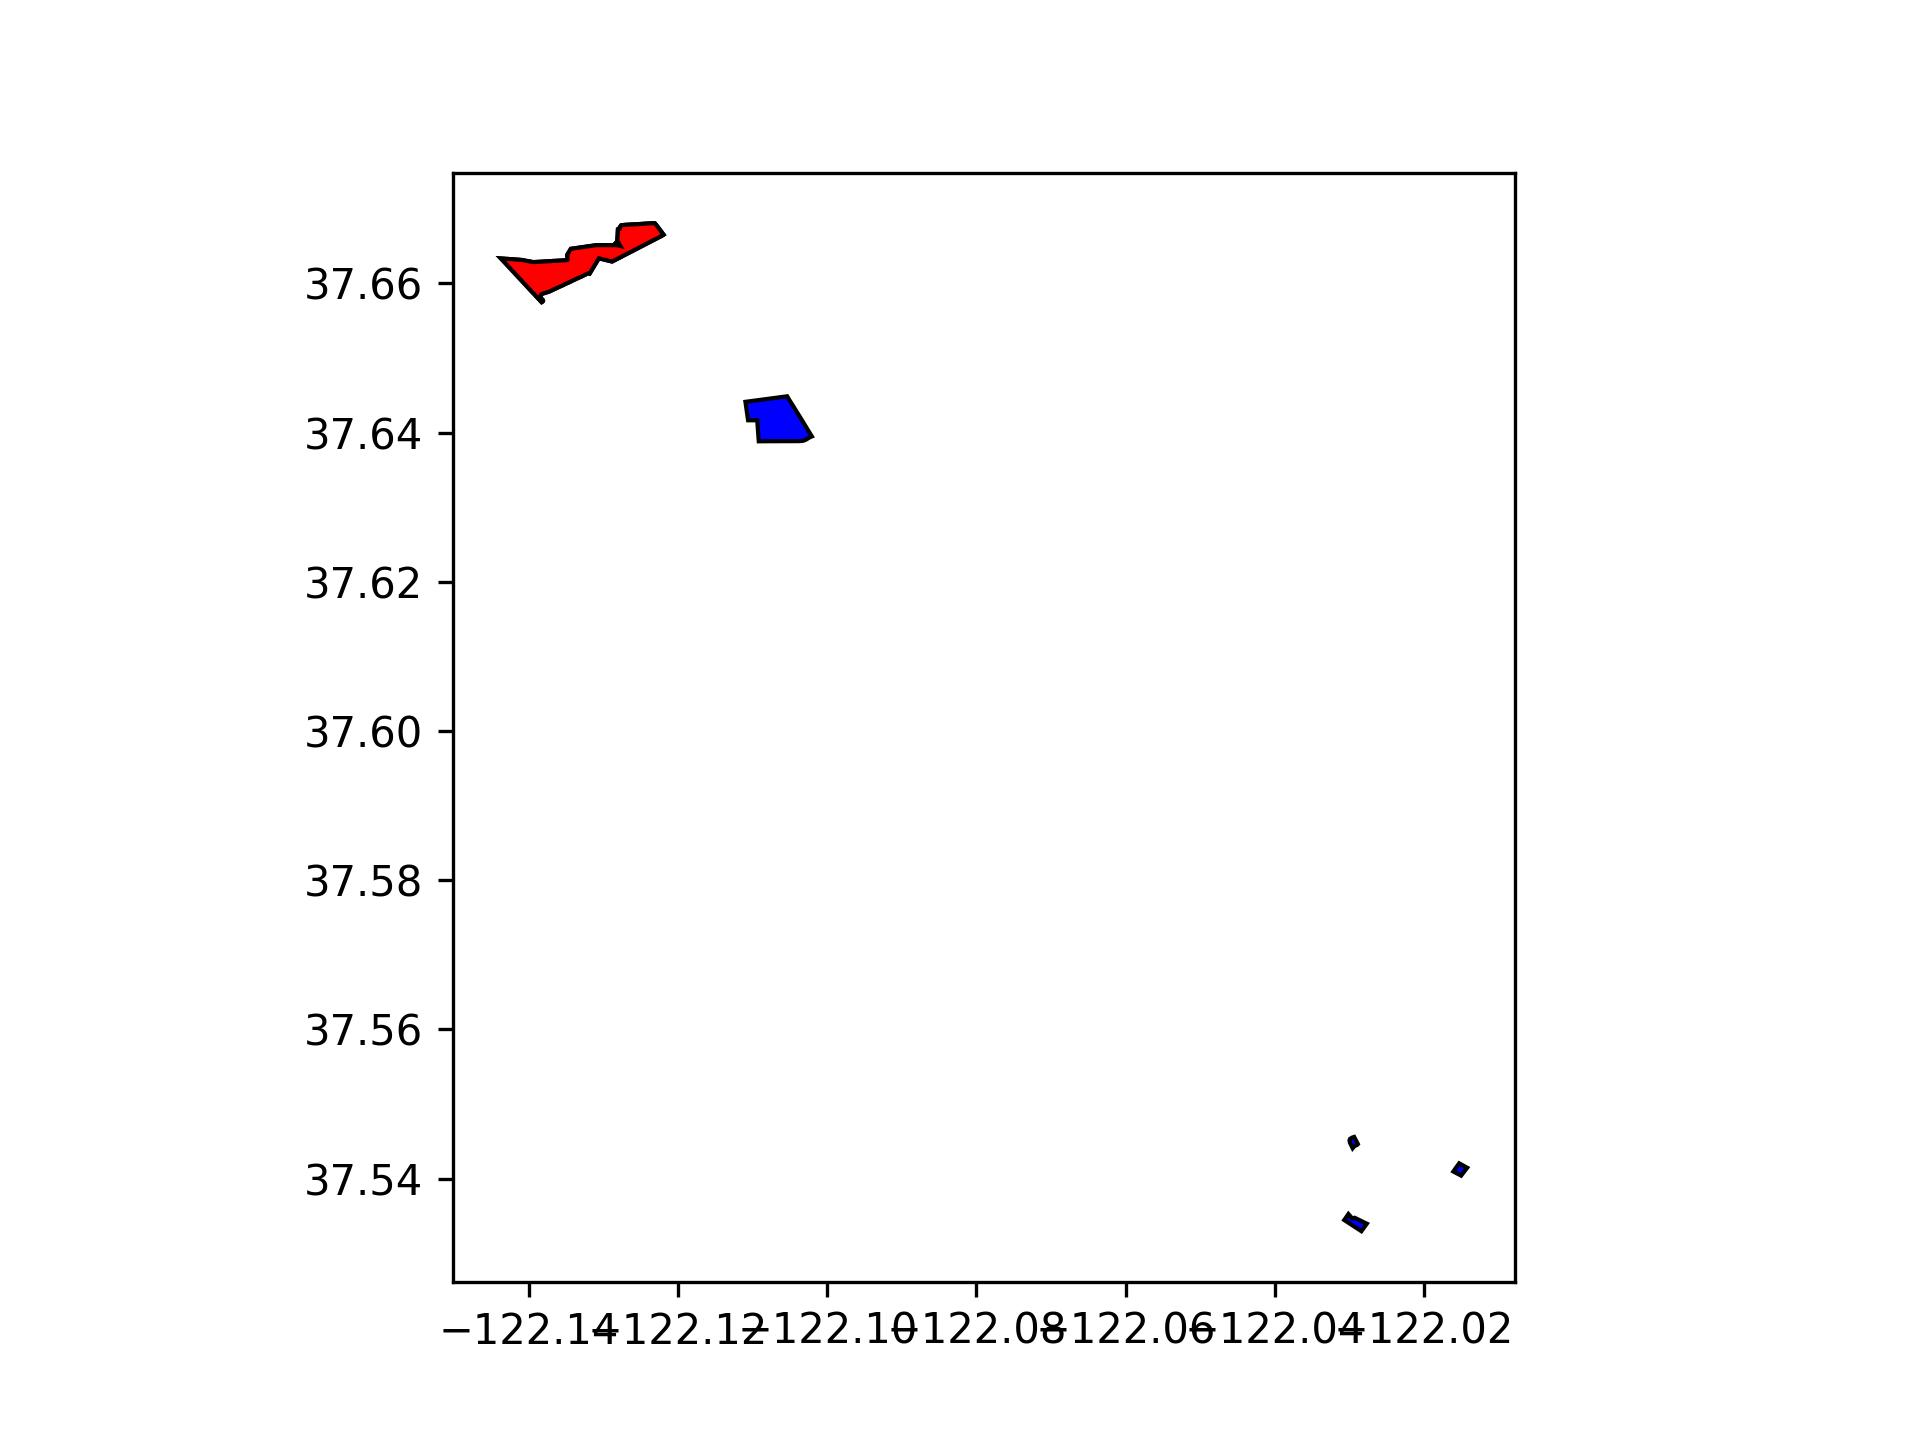
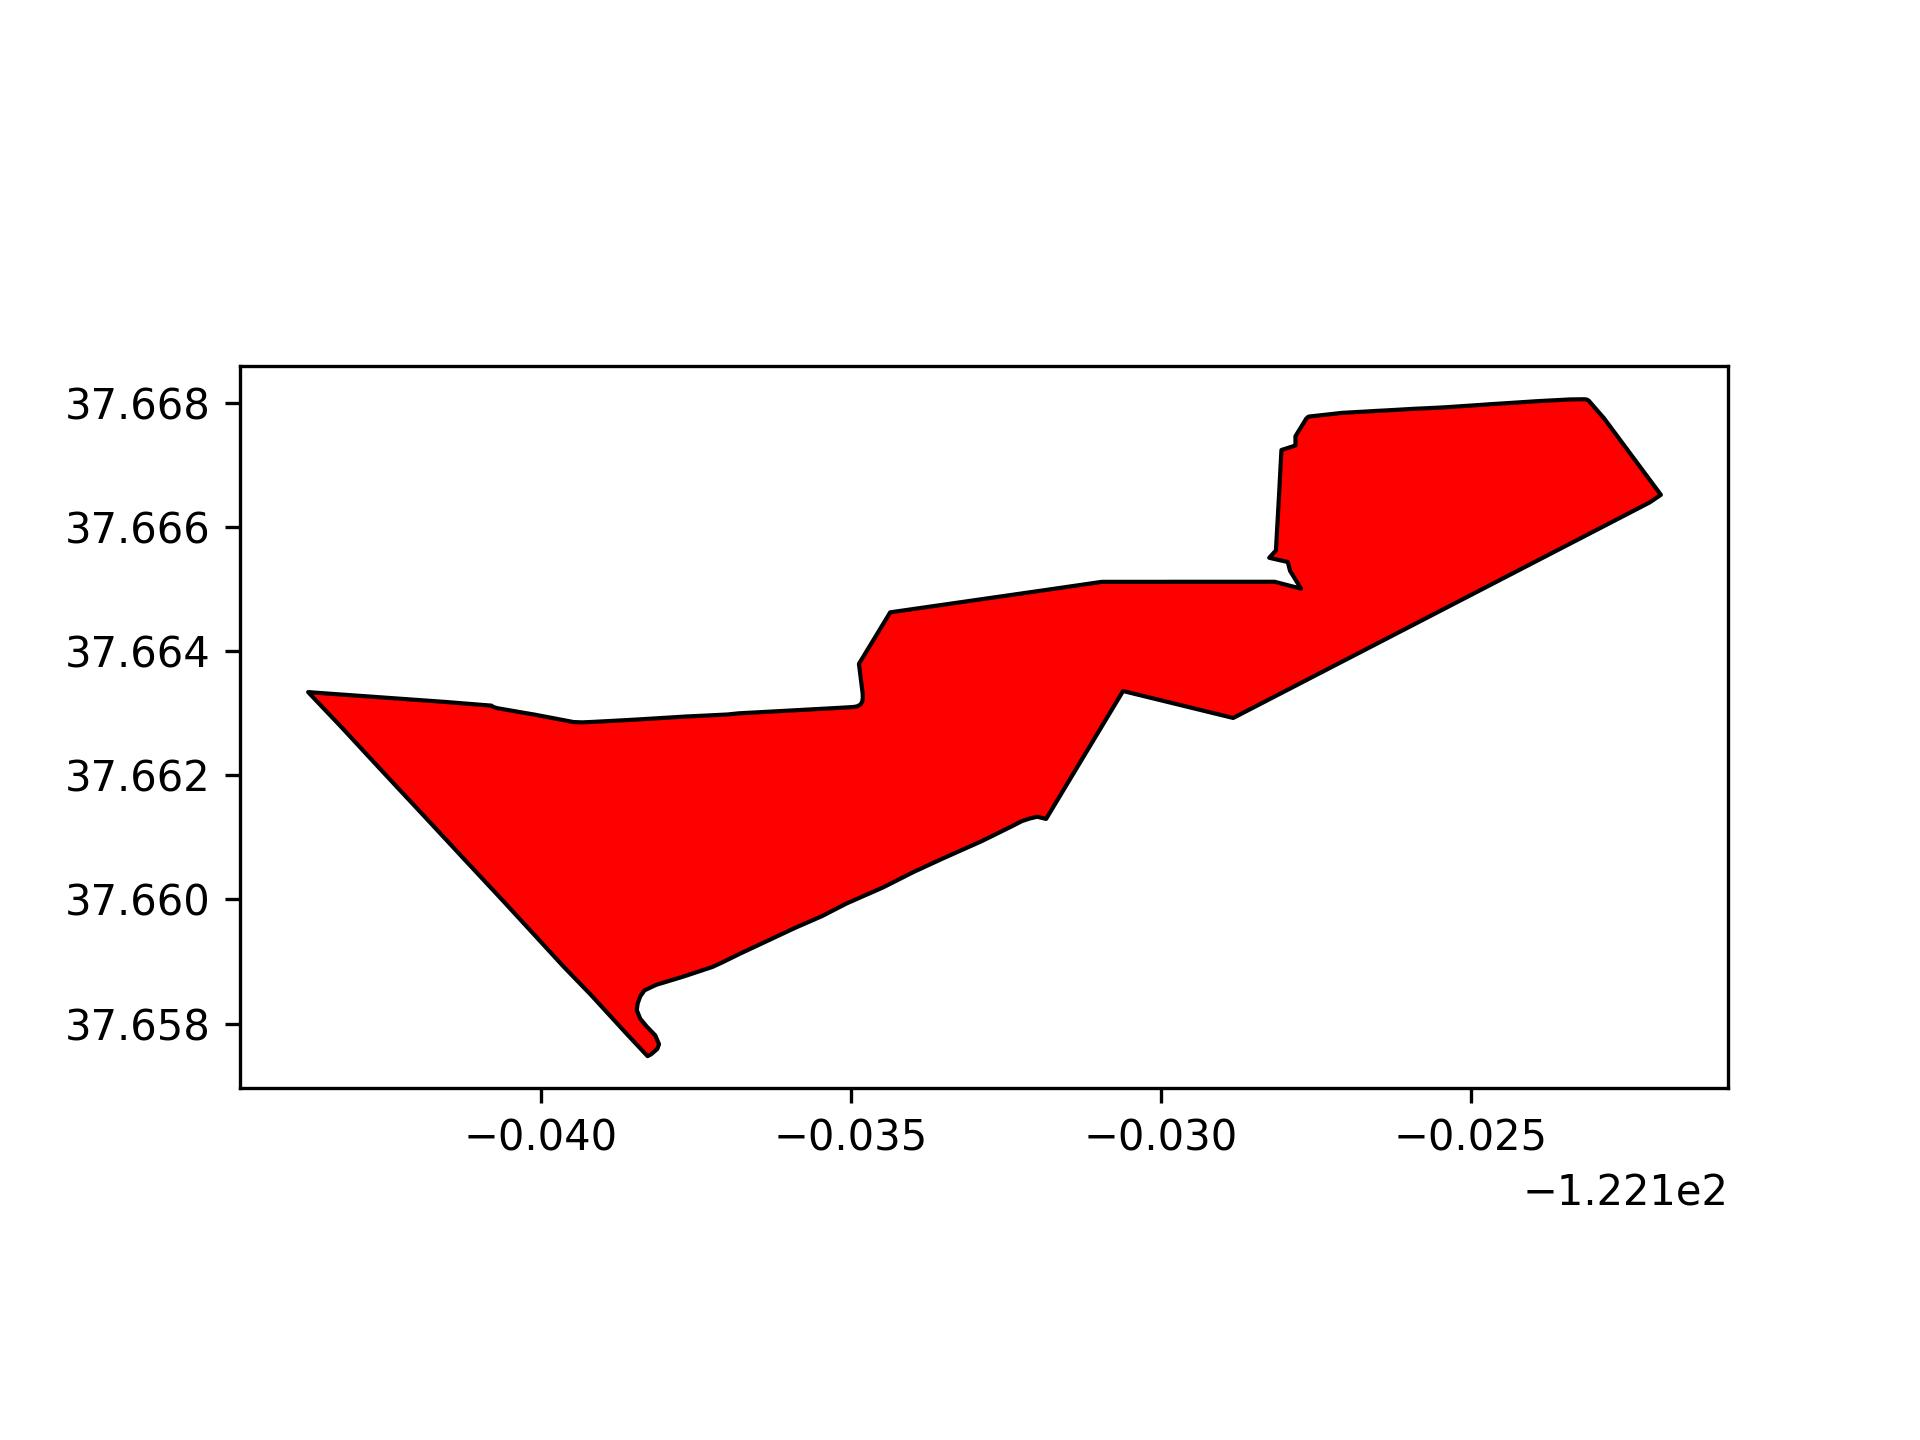
[Ronnit] - Using dask, and adding pysal for visualization

diff --git a/plot_polygons.py b/plot_polygons.py
@@ -14,27 +14,31 @@ def determine_geometry(points):
     else:
         return "Line"
 
+def visualize_polygons(polygons):
+    fig, ax = plt.subplots()
+    for poly in polygons:
+        patch = Polygon(list(poly.exterior.coords), facecolor='blue', edgecolor='black')
+        ax.add_patch(patch)
+
+    # Add the given polygon for comparison
+    given_patch = Polygon(list(given_polygon.exterior.coords), facecolor='red', edgecolor='black')
+    ax.add_patch(given_patch)
+
+    ax.set_aspect('equal')
+    ax.autoscale()
+    plt.savefig('/home/y4xxh/Documents/SSTD_GeoSpatial/images/check_polygon_existence.jpeg', format='jpeg', dpi=300)
+    return 
+
 def check_polygons_equality(polygons, given_polygon):
     # Check if the given_polygon is equal to any of the polygons in the list
     for polygon in polygons:
         if polygon.equals(given_polygon):
-            fig, ax = plt.subplots()
-            for poly in polygons:
-                patch = Polygon(list(poly.exterior.coords), facecolor='blue', edgecolor='black')
-                ax.add_patch(patch)
-
-            # Add the given polygon for comparison
-            given_patch = Polygon(list(given_polygon.exterior.coords), facecolor='red', edgecolor='black')
-            ax.add_patch(given_patch)
-
-            ax.set_aspect('equal')
-            ax.autoscale()
-            plt.savefig('/home/y4xxh/Documents/SSTD_GeoSpatial/images/check_polygon_existence.jpeg', format='jpeg', dpi=300)
+            visualize_polygons(polygons)
             print('Saving polygon existence as it does exist')
-            return 
-            
+            return
+    
     print("The given polygon does not exist in the csv file.")
-
+            
 def refine_polygon_csv(csv_file):
     with open(csv_file, 'r') as file:
         reader = csv.reader(file, delimiter='|')
@@ -60,12 +64,12 @@ if __name__ == '__main__':
     polygons = []
 
     # Test point
-    # csv_file = '/home/y4xxh/Documents/SSTD_GeoSpatial/data/test_csv_1.csv'
-    # given_polygon = sg.Polygon([(0, 0), (1, 0), (1, 1), (0, 1), (0, 0)])
+    csv_file = '/home/y4xxh/Documents/SSTD_GeoSpatial/data/test_csv_2.csv'
+    given_polygon = sg.Polygon([(0, 0), (1, 0), (1, 1), (0, 1), (0, 0)])
     
-    # Coordinate point from arealm.csv
-    csv_file = '/home/y4xxh/Documents/SSTD_GeoSpatial/data/test_csv_1.csv'
-    given_polygon = sg.Polygon([(-122.123024, 37.665946), (-122.126254, 37.664274), (-122.128843, 37.662935), (-122.130619, 37.663369), (-122.13186, 37.661307), (-122.132003, 37.661342), (-122.13212, 37.661315), (-122.132252, 37.661271), (-122.132411, 37.661189), (-122.132902, 37.660947), (-122.133517, 37.660673), (-122.133994, 37.660453), (-122.134492, 37.660201), (-122.135079, 37.659943), (-122.135473, 37.65974), (-122.135902, 37.659553), (-122.136815, 37.659125), (-122.13707, 37.658999), (-122.137236, 37.658922), (-122.137699, 37.658768), (-122.138149, 37.658631), (-122.138335, 37.658543), (-122.138405, 37.658444), (-122.138446, 37.658329), (-122.13846, 37.658225), (-122.138405, 37.658087), (-122.138301, 37.657961), (-122.138163, 37.657818), (-122.138101, 37.657675), (-122.138129, 37.657598), (-122.138232, 37.65751), (-122.138286, 37.657482), (-122.138628, 37.657847), (-122.139005, 37.658258), (-122.139202, 37.658473), (-122.139633, 37.658918), (-122.1406, 37.659969), (-122.141094, 37.660499), (-122.14117, 37.66058), (-122.141352, 37.660776), (-122.141891, 37.661356), (-122.142264, 37.661755), (-122.142649, 37.662168), (-122.143244, 37.662811), (-122.143382, 37.662955), (-122.143759, 37.663352), (-122.14357, 37.663338), (-122.143309, 37.663319), (-122.141961, 37.663223), (-122.141512, 37.663191), (-122.14137, 37.663179), (-122.141306, 37.663174), (-122.140944, 37.663145), (-122.140802, 37.663134), (-122.140784, 37.66312), (-122.14076, 37.663108), (-122.140706, 37.663092), (-122.140671, 37.663086), (-122.140255, 37.663014), (-122.140117, 37.662991), (-122.139961, 37.662961), (-122.139495, 37.662872), (-122.139479, 37.662869), (-122.139338, 37.662864), (-122.13918, 37.662871), (-122.138706, 37.662896), (-122.138549, 37.662905), (-122.138374, 37.662915), (-122.137852, 37.662947), (-122.137678, 37.662958), (-122.137505, 37.662966), (-122.136999, 37.662991), (-122.136987, 37.662992), (-122.136816, 37.66301), (-122.136421, 37.663031), (-122.135236, 37.663096), (-122.134973, 37.663111), (-122.134907, 37.663122), (-122.13485, 37.663153), (-122.134822, 37.663207), (-122.134816, 37.663268), (-122.134816, 37.663278), (-122.134818, 37.663333), (-122.134861, 37.663675), (-122.134878, 37.663807), (-122.134419, 37.664563), (-122.134374, 37.664638), (-122.131835, 37.665003), (-122.13096, 37.66513), (-122.130722, 37.66513), (-122.130012, 37.66513), (-122.129775, 37.665131), (-122.129455, 37.665131), (-122.128495, 37.665131), (-122.128175, 37.665131), (-122.127995, 37.665084), (-122.127749, 37.66502), (-122.127906, 37.665275), (-122.127926, 37.665306), (-122.127963, 37.66545), (-122.128022, 37.665463), (-122.128202, 37.665504), (-122.128262, 37.665518), (-122.128154, 37.665636), (-122.128143, 37.665832), (-122.128102, 37.666561), (-122.128084, 37.6669), (-122.128065, 37.667256), (-122.128019, 37.66727), (-122.127884, 37.667314), (-122.127839, 37.667329), (-122.127839, 37.667358), (-122.127839, 37.667447), (-122.12784, 37.667477), (-122.127742, 37.667635), (-122.127668, 37.667758), (-122.127636, 37.667789), (-122.127615, 37.667796), (-122.127269, 37.667834), (-122.127085, 37.667855), (-122.126972, 37.667861), (-122.126634, 37.66788), (-122.126522, 37.667887), (-122.126399, 37.667893), (-122.126033, 37.667914), (-122.125911, 37.667921), (-122.125815, 37.667925), (-122.125529, 37.667939), (-122.125434, 37.667944), (-122.125284, 37.667954), (-122.124838, 37.667984), (-122.124689, 37.667995), (-122.12454, 37.668004), (-122.124093, 37.668033), (-122.123945, 37.668043), (-122.12341, 37.668071), (-122.12318, 37.668074), (-122.123157, 37.668071), (-122.123137, 37.668067), (-122.12311, 37.668051), (-122.122862, 37.667765), (-122.121947, 37.666533), (-122.122128, 37.66641), (-122.123024, 37.665946)])
-
     polygons = refine_polygon_csv(csv_file)
     check_polygons_equality(polygons, given_polygon)
+
+    # Coordinate point from arealm.csv
+    # csv_file = '/home/y4xxh/Documents/SSTD_GeoSpatial/data/test_csv_1.csv'
+    # given_polygon = sg.Polygon([(-122.123024, 37.665946), (-122.126254, 37.664274), (-122.128843, 37.662935), (-122.130619, 37.663369), (-122.13186, 37.661307), (-122.132003, 37.661342), (-122.13212, 37.661315), (-122.132252, 37.661271), (-122.132411, 37.661189), (-122.132902, 37.660947), (-122.133517, 37.660673), (-122.133994, 37.660453), (-122.134492, 37.660201), (-122.135079, 37.659943), (-122.135473, 37.65974), (-122.135902, 37.659553), (-122.136815, 37.659125), (-122.13707, 37.658999), (-122.137236, 37.658922), (-122.137699, 37.658768), (-122.138149, 37.658631), (-122.138335, 37.658543), (-122.138405, 37.658444), (-122.138446, 37.658329), (-122.13846, 37.658225), (-122.138405, 37.658087), (-122.138301, 37.657961), (-122.138163, 37.657818), (-122.138101, 37.657675), (-122.138129, 37.657598), (-122.138232, 37.65751), (-122.138286, 37.657482), (-122.138628, 37.657847), (-122.139005, 37.658258), (-122.139202, 37.658473), (-122.139633, 37.658918), (-122.1406, 37.659969), (-122.141094, 37.660499), (-122.14117, 37.66058), (-122.141352, 37.660776), (-122.141891, 37.661356), (-122.142264, 37.661755), (-122.142649, 37.662168), (-122.143244, 37.662811), (-122.143382, 37.662955), (-122.143759, 37.663352), (-122.14357, 37.663338), (-122.143309, 37.663319), (-122.141961, 37.663223), (-122.141512, 37.663191), (-122.14137, 37.663179), (-122.141306, 37.663174), (-122.140944, 37.663145), (-122.140802, 37.663134), (-122.140784, 37.66312), (-122.14076, 37.663108), (-122.140706, 37.663092), (-122.140671, 37.663086), (-122.140255, 37.663014), (-122.140117, 37.662991), (-122.139961, 37.662961), (-122.139495, 37.662872), (-122.139479, 37.662869), (-122.139338, 37.662864), (-122.13918, 37.662871), (-122.138706, 37.662896), (-122.138549, 37.662905), (-122.138374, 37.662915), (-122.137852, 37.662947), (-122.137678, 37.662958), (-122.137505, 37.662966), (-122.136999, 37.662991), (-122.136987, 37.662992), (-122.136816, 37.66301), (-122.136421, 37.663031), (-122.135236, 37.663096), (-122.134973, 37.663111), (-122.134907, 37.663122), (-122.13485, 37.663153), (-122.134822, 37.663207), (-122.134816, 37.663268), (-122.134816, 37.663278), (-122.134818, 37.663333), (-122.134861, 37.663675), (-122.134878, 37.663807), (-122.134419, 37.664563), (-122.134374, 37.664638), (-122.131835, 37.665003), (-122.13096, 37.66513), (-122.130722, 37.66513), (-122.130012, 37.66513), (-122.129775, 37.665131), (-122.129455, 37.665131), (-122.128495, 37.665131), (-122.128175, 37.665131), (-122.127995, 37.665084), (-122.127749, 37.66502), (-122.127906, 37.665275), (-122.127926, 37.665306), (-122.127963, 37.66545), (-122.128022, 37.665463), (-122.128202, 37.665504), (-122.128262, 37.665518), (-122.128154, 37.665636), (-122.128143, 37.665832), (-122.128102, 37.666561), (-122.128084, 37.6669), (-122.128065, 37.667256), (-122.128019, 37.66727), (-122.127884, 37.667314), (-122.127839, 37.667329), (-122.127839, 37.667358), (-122.127839, 37.667447), (-122.12784, 37.667477), (-122.127742, 37.667635), (-122.127668, 37.667758), (-122.127636, 37.667789), (-122.127615, 37.667796), (-122.127269, 37.667834), (-122.127085, 37.667855), (-122.126972, 37.667861), (-122.126634, 37.66788), (-122.126522, 37.667887), (-122.126399, 37.667893), (-122.126033, 37.667914), (-122.125911, 37.667921), (-122.125815, 37.667925), (-122.125529, 37.667939), (-122.125434, 37.667944), (-122.125284, 37.667954), (-122.124838, 37.667984), (-122.124689, 37.667995), (-122.12454, 37.668004), (-122.124093, 37.668033), (-122.123945, 37.668043), (-122.12341, 37.668071), (-122.12318, 37.668074), (-122.123157, 37.668071), (-122.123137, 37.668067), (-122.12311, 37.668051), (-122.122862, 37.667765), (-122.121947, 37.666533), (-122.122128, 37.66641), (-122.123024, 37.665946)])

diff --git a/dask_plot_polygons.py b/dask_plot_polygons.py
@@ -1,0 +1,56 @@
+import sys
+import csv
+import dask.dataframe as dd
+import dask.delayed as delayed
+import shapely.geometry as sg
+import geopandas as gpd
+import matplotlib.pyplot as plt
+from matplotlib.patches import Polygon
+
+csv.field_size_limit(sys.maxsize)
+
+def determine_geometry(points):
+    line = sg.LineString(points)
+    if line.is_ring:
+        return "Polygon"
+    else:
+        return "Line"
+
+def visualize_polygons(polygons):
+    gdf = gpd.GeoDataFrame(geometry=polygons)
+    gdf.plot(color='blue', edgecolor='black')
+
+    # Add the given polygon for comparison
+    gdf_given = gpd.GeoDataFrame(geometry=[given_polygon])
+    gdf_given.plot(color='red', edgecolor='black')
+
+    plt.gca().set_aspect('equal')
+    plt.savefig('/home/y4xxh/Documents/SSTD_GeoSpatial/images/check_polygon_existence.jpeg', format='jpeg', dpi=300)
+    return 
+
+def check_polygons_equality(polygons, given_polygon):
+    # Check if the given_polygon is equal to any of the polygons in the list
+    for polygon in polygons:
+        if polygon.equals(given_polygon):
+            visualize_polygons(polygons)
+            print('Saving polygon existence as it does exist')
+            return 
+            
+    print("The given polygon does not exist in the csv file.")
+
+def refine_polygon_csv(csv_file):
+    df = dd.read_csv(csv_file, delimiter='|', names=['id', 'polygon'], header=None)
+    df['polygon'] = df['polygon'].apply(lambda x: x.replace('POLYGON ((', '').replace('))', '').replace(')', '').replace('(', ''), meta=('polygon', 'object'))
+    df['points'] = df['polygon'].apply(lambda x: [tuple(map(float, point.split())) for point in x.split(',')], meta=('points', 'object'))
+    df['geometry_type'] = df['points'].apply(determine_geometry, meta=('geometry_type', 'object'))
+    df['polygon'] = df.apply(lambda row: sg.Polygon(row['points']) if row['geometry_type'] == "Polygon" else None, axis=1, meta=('polygon', 'object'))
+    
+    return df.compute()
+
+if __name__ == '__main__':
+    csv_file = '/home/y4xxh/Documents/SSTD_GeoSpatial/data/test_csv_1.csv'
+    given_polygon = sg.Polygon([(-122.123024, 37.665946), (-122.126254, 37.664274), (-122.128843, 37.662935), (-122.130619, 37.663369), (-122.13186, 37.661307), (-122.132003, 37.661342), (-122.13212, 37.661315), (-122.132252, 37.661271), (-122.132411, 37.661189), (-122.132902, 37.660947), (-122.133517, 37.660673), (-122.133994, 37.660453), (-122.134492, 37.660201), (-122.135079, 37.659943), (-122.135473, 37.65974), (-122.135902, 37.659553), (-122.136815, 37.659125), (-122.13707, 37.658999), (-122.137236, 37.658922), (-122.137699, 37.658768), (-122.138149, 37.658631), (-122.138335, 37.658543), (-122.138405, 37.658444), (-122.138446, 37.658329), (-122.13846, 37.658225), (-122.138405, 37.658087), (-122.138301, 37.657961), (-122.138163, 37.657818), (-122.138101, 37.657675), (-122.138129, 37.657598), (-122.138232, 37.65751), (-122.138286, 37.657482), (-122.138628, 37.657847), (-122.139005, 37.658258), (-122.139202, 37.658473), (-122.139633, 37.658918), (-122.1406, 37.659969), (-122.141094, 37.660499), (-122.14117, 37.66058), (-122.141352, 37.660776), (-122.141891, 37.661356), (-122.142264, 37.661755), (-122.142649, 37.662168), (-122.143244, 37.662811), (-122.143382, 37.662955), (-122.143759, 37.663352), (-122.14357, 37.663338), (-122.143309, 37.663319), (-122.141961, 37.663223), (-122.141512, 37.663191), (-122.14137, 37.663179), (-122.141306, 37.663174), (-122.140944, 37.663145), (-122.140802, 37.663134), (-122.140784, 37.66312), (-122.14076, 37.663108), (-122.140706, 37.663092), (-122.140671, 37.663086), (-122.140255, 37.663014), (-122.140117, 37.662991), (-122.139961, 37.662961), (-122.139495, 37.662872), (-122.139479, 37.662869), (-122.139338, 37.662864), (-122.13918, 37.662871), (-122.138706, 37.662896), (-122.138549, 37.662905), (-122.138374, 37.662915), (-122.137852, 37.662947), (-122.137678, 37.662958), (-122.137505, 37.662966), (-122.136999, 37.662991), (-122.136987, 37.662992), (-122.136816, 37.66301), (-122.136421, 37.663031), (-122.135236, 37.663096), (-122.134973, 37.663111), (-122.134907, 37.663122), (-122.13485, 37.663153), (-122.134822, 37.663207), (-122.134816, 37.663268), (-122.134816, 37.663278), (-122.134818, 37.663333), (-122.134861, 37.663675), (-122.134878, 37.663807), (-122.134419, 37.664563), (-122.134374, 37.664638), (-122.131835, 37.665003), (-122.13096, 37.66513), (-122.130722, 37.66513), (-122.130012, 37.66513), (-122.129775, 37.665131), (-122.129455, 37.665131), (-122.128495, 37.665131), (-122.128175, 37.665131), (-122.127995, 37.665084), (-122.127749, 37.66502), (-122.127906, 37.665275), (-122.127926, 37.665306), (-122.127963, 37.66545), (-122.128022, 37.665463), (-122.128202, 37.665504), (-122.128262, 37.665518), (-122.128154, 37.665636), (-122.128143, 37.665832), (-122.128102, 37.666561), (-122.128084, 37.6669), (-122.128065, 37.667256), (-122.128019, 37.66727), (-122.127884, 37.667314), (-122.127839, 37.667329), (-122.127839, 37.667358), (-122.127839, 37.667447), (-122.12784, 37.667477), (-122.127742, 37.667635), (-122.127668, 37.667758), (-122.127636, 37.667789), (-122.127615, 37.667796), (-122.127269, 37.667834), (-122.127085, 37.667855), (-122.126972, 37.667861), (-122.126634, 37.66788), (-122.126522, 37.667887), (-122.126399, 37.667893), (-122.126033, 37.667914), (-122.125911, 37.667921), (-122.125815, 37.667925), (-122.125529, 37.667939), (-122.125434, 37.667944), (-122.125284, 37.667954), (-122.124838, 37.667984), (-122.124689, 37.667995), (-122.12454, 37.668004), (-122.124093, 37.668033), (-122.123945, 37.668043), (-122.12341, 37.668071), (-122.12318, 37.668074), (-122.123157, 37.668071), (-122.123137, 37.668067), (-122.12311, 37.668051), (-122.122862, 37.667765), (-122.121947, 37.666533), (-122.122128, 37.66641), (-122.123024, 37.665946)])
+
+    df = refine_polygon_csv(csv_file)
+    polygons = df[df['geometry_type'] == "Polygon"]['polygon'].tolist()
+    check_polygons_equality(polygons, given_polygon)
